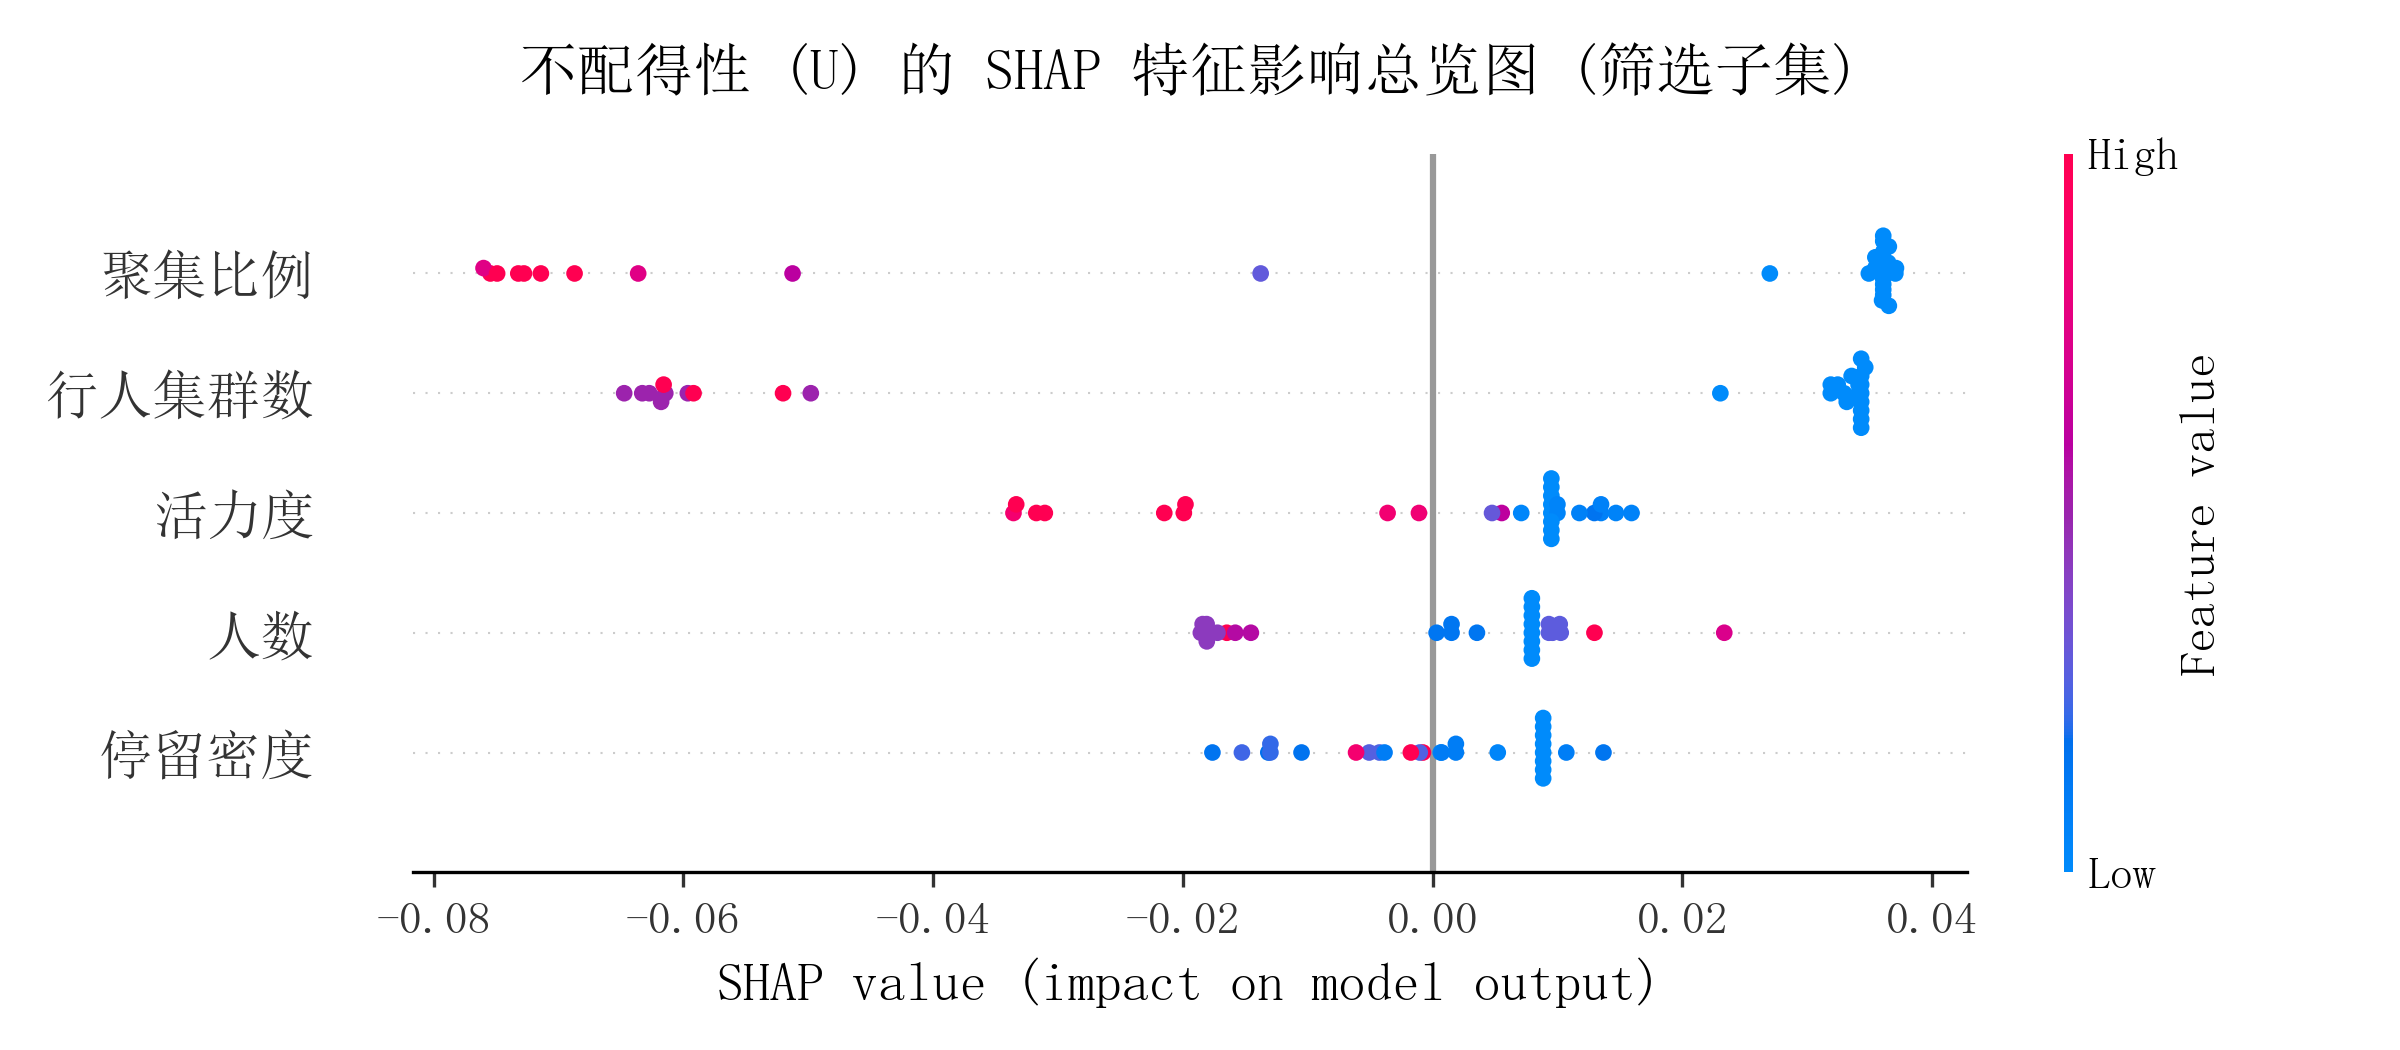
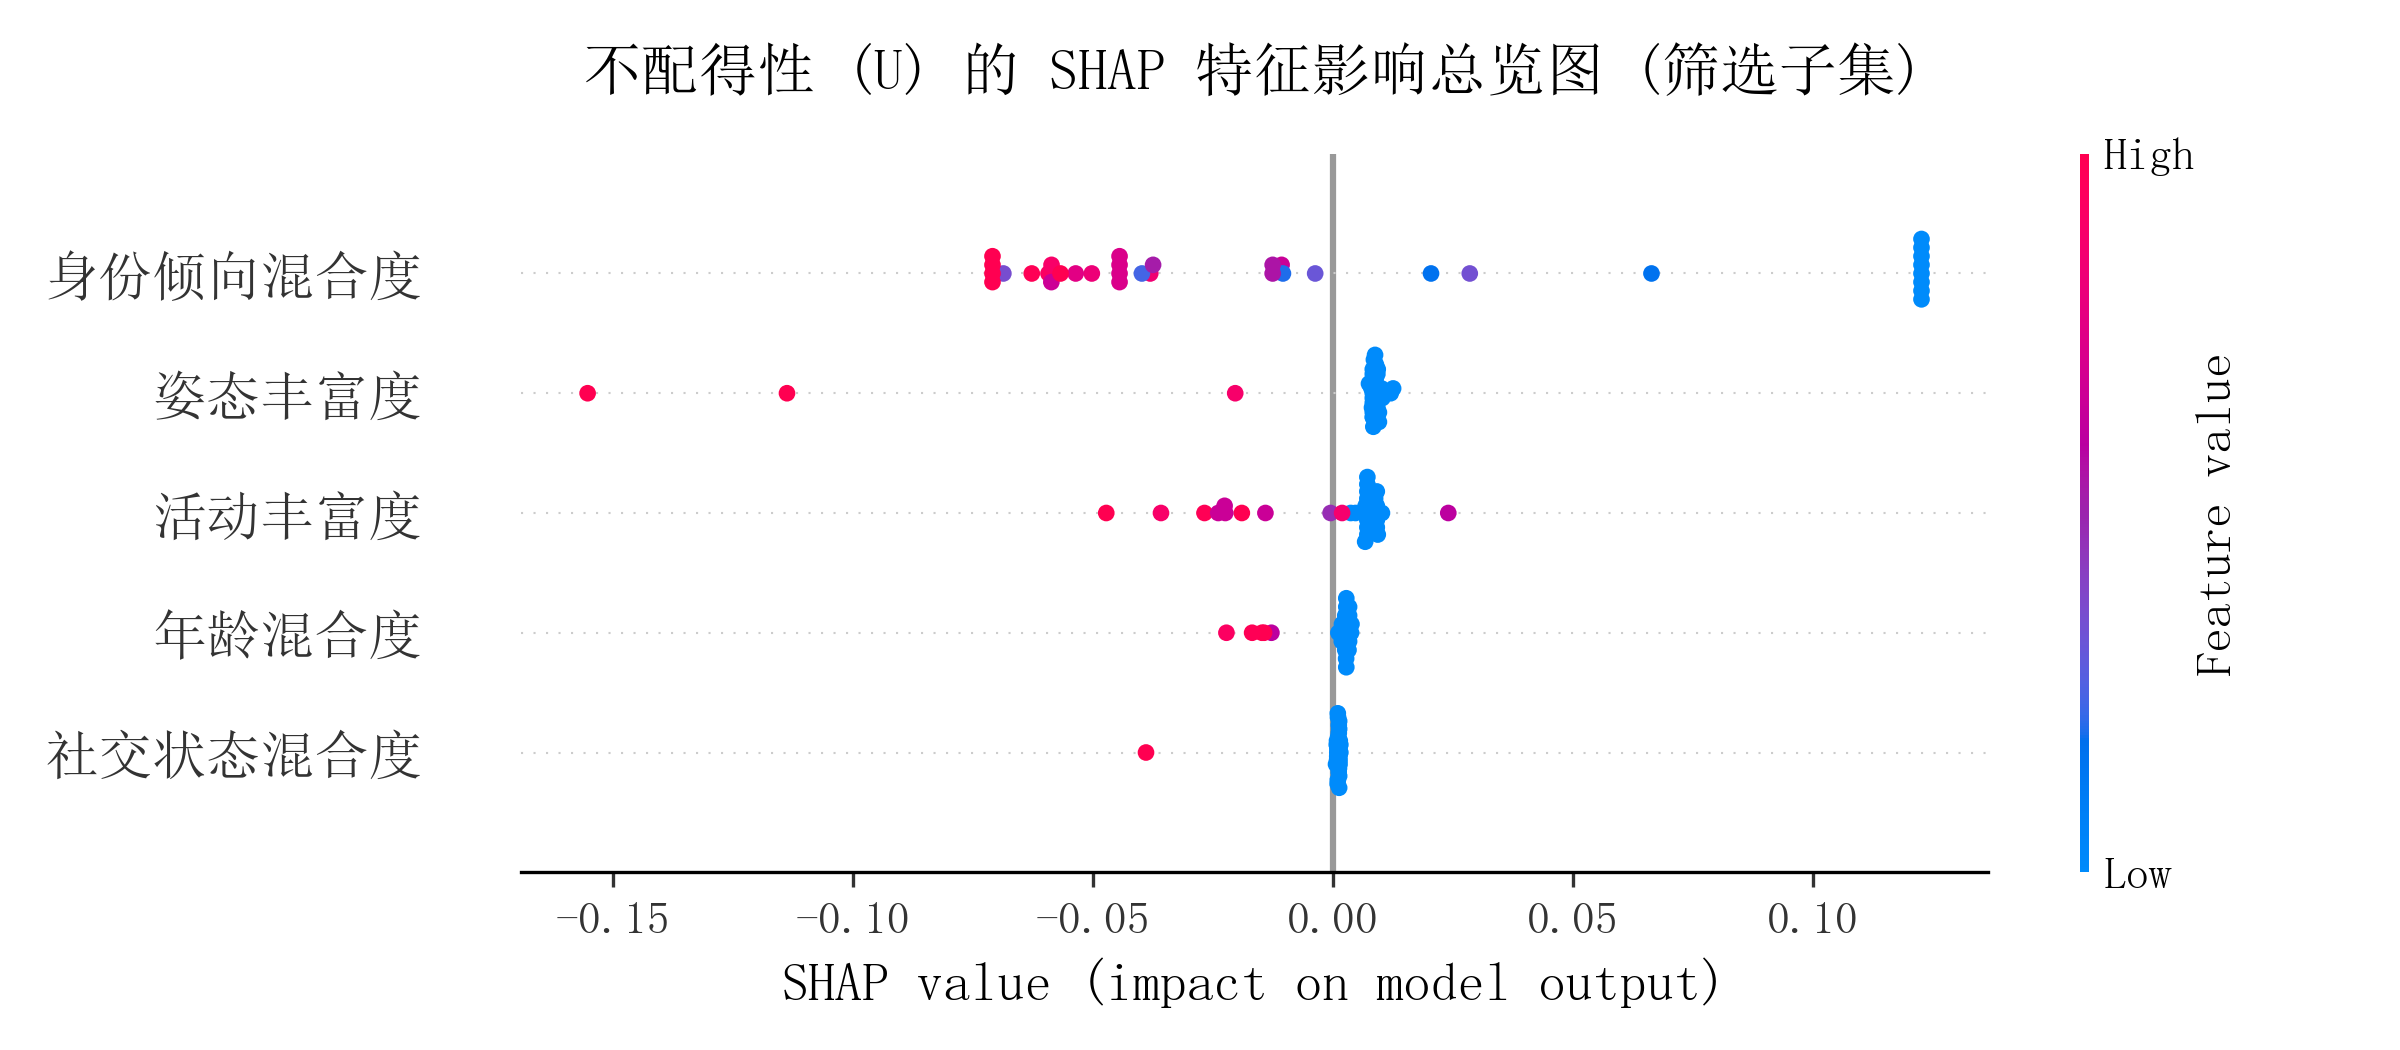
更改图片

diff --git a/aerial/assets/data/shap-captions.js b/aerial/assets/data/shap-captions.js
@@ -16,7 +16,7 @@ groups:{
 '结论：绝大多数样本点均呈现弱负相关的分布特征（即U值处于0.0附近的低水平，呈蓝色系），表明在当前特征组合下，不配得性总体维持在较低水平；仅在极端条件（遮荫率0%且有效停留面积近0㎡）下出现U值的高峰（深红色，U>0.4），呈现出强烈的“阈值突变”特征，这表明不配得性并非随单一特征线性增长，而是受极端特征组合（双重缺失）的显著驱动，其增长存在明显的空间边界性。'
 ],
 '高界面品质低混合度':[
-'结论：遮荫率对不配得性具有最强的正向贡献，其次为有效停留空间面积与临街互动性，说明物理环境形态变量在感知评价中占据主导解释力；物理环境维度因素（即遮荫率、空间面积、临街互动性及历史感知度）加剧不配得性，反映样本情境下过度供给的负向叠加效应；社会经济活力维度因素（即可承载停留人数、消费型停留空间占比）缓解不配得性效应稳定、样本一致性高。',
+'结论：身份倾向混合度对不配得性的影响最为显著且呈现强烈的正向驱动作用；姿态丰富度与活动丰富度对不配得性的影响呈现明显的分化，高特征值样本主要位于左侧负向区间，倾向于降低不配得性，而低特征值样本多分布于右侧正向区间，起到拉高作用。年龄混合度与社交状态混合度的影响相对较弱且分布集中，年龄混合度的低特征值样本轻微拉高不配得性，社交状态混合度则表现为个别低特征值样本的负向抑制作用。',
 '结论：聚集比例与行人集群数之间存在非线性交互作用，二者共同决定对不配得性的影响。在中等聚集比例下，集群数的高低可显著改变该特征的作用方向与强度，提示在解释或干预不配得性时应同时考虑这两个因素，而非单独解读聚集比例的主效应。',
 '结论：随不配得性U的增强，聚集比例与行人集群数的关联并非线性变化，而是呈明显的阶段性；U较低时，两者均处于低位；U升至中等水平时，两者同步增长至最高；当U进一步升高，A虽仍保持高位，B却急剧下降至零。'
 ],
